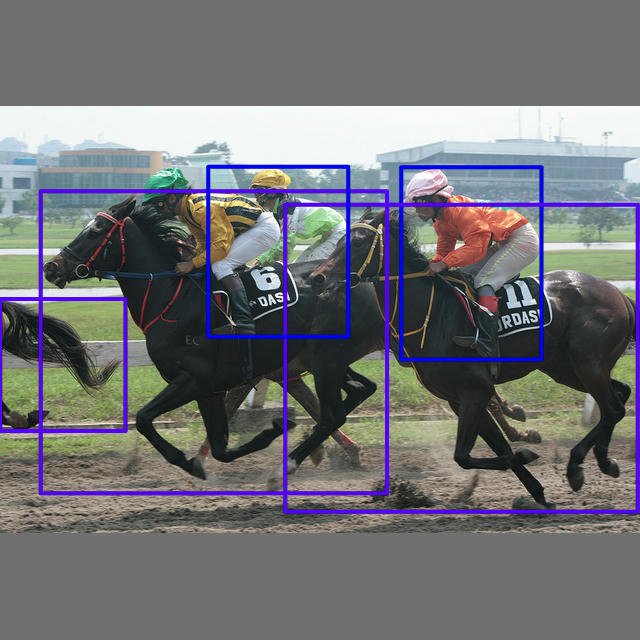
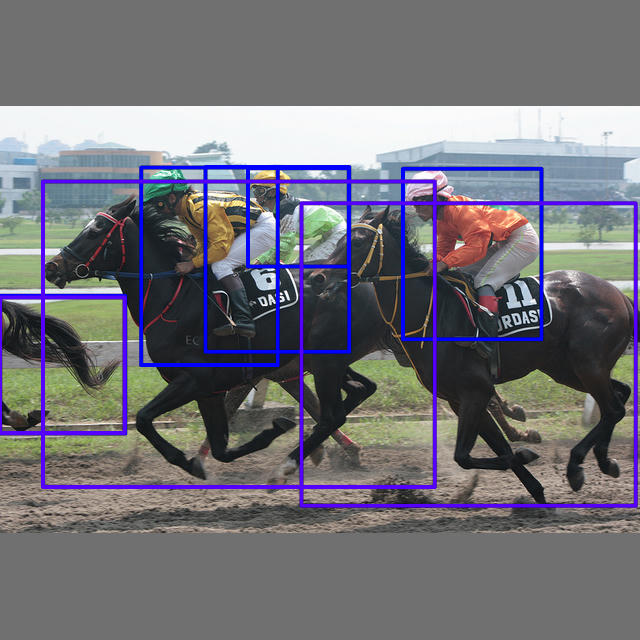
chore: version bump

Changed region(s): [[0.0, 0.25, 1.0, 0.8125]]

diff --git a/src/yolo/yolo_session.rs b/src/yolo/yolo_session.rs
@@ -31,15 +31,15 @@ impl YoloSession {
         })
     }
 
-    pub fn run_inference(&self, input_tensor: Array4<f32>) -> Vec<BoundingBox> {
+    pub fn run_inference(&mut self, input_tensor: Array4<f32>) -> Vec<BoundingBox> {
         let outputs = self
             .session
             .run_inference(input_tensor)
             .expect("Inference failed");
         let output = outputs["output0"]
-            .try_extract_tensor::<f32>()
+            .try_extract_array::<f32>()
             .expect("Failed to extract tensor")
-            .into_owned();
+            .to_owned();
         let mut boxes = Vec::new();
         println!("output shape: {:?}", output.shape());
 
@@ -175,16 +175,15 @@ impl YoloSession {
         );
     }
 
-    pub fn process_image(&self, image_path: &str) {
+    pub fn process_image(&mut self, image_path: &str) {
         let (original_image, loaded_image) = self.load_and_preprocess_image(image_path);
 
         let normalized_image = normalize_image_f32(&loaded_image, None, None);
         let mut inferred_boxes = self.run_inference(normalized_image.image_array);
 
         // YOLOv10 does not require NMS
-        // you can use them for other models
-        // XXX: it's not hard coded as "0.45", which is the default value for Ultralytics YOLOv8
-        if self.use_nms {
+        // YOLOv8 requires NMS
+        if self.model_name == "yolov8" || self.use_nms {
             inferred_boxes = nms(inferred_boxes, 0.45);
         }
 

diff --git a/src/yolo/yolo_utils.rs b/src/yolo/yolo_utils.rs
@@ -29,13 +29,20 @@ impl BoundingBox {
 
 
 pub fn nms(boxes: Vec<BoundingBox>, iou_threshold: f32) -> Vec<BoundingBox> {
-    let mut sorted_boxes = boxes.clone();
-    sorted_boxes.sort_by(|a, b| b.probability.partial_cmp(&a.probability).unwrap());
     let mut result = Vec::new();
-    while !sorted_boxes.is_empty() {
-        let best_box = sorted_boxes.remove(0);
-        result.push(best_box);
-        sorted_boxes.retain(|bbox| best_box.iou(&bbox) < iou_threshold);
+    let mut boxes_by_class: std::collections::HashMap<usize, Vec<BoundingBox>> = std::collections::HashMap::new();
+
+    for bbox in boxes {
+        boxes_by_class.entry(bbox.class_id).or_default().push(bbox);
+    }
+
+    for (_, mut class_boxes) in boxes_by_class {
+        class_boxes.sort_by(|a, b| b.probability.partial_cmp(&a.probability).unwrap());
+        while !class_boxes.is_empty() {
+            let best_box = class_boxes.remove(0);
+            result.push(best_box);
+            class_boxes.retain(|bbox| best_box.iou(&bbox) < iou_threshold);
+        }
     }
     result
 }

diff --git a/src/dnn/ort_inference_session.rs b/src/dnn/ort_inference_session.rs
@@ -17,9 +17,9 @@ impl OrtInferenceSession {
     }
 
     pub fn run_inference(
-        &self,
+        &mut self,
         input_image: ArrayBase<OwnedRepr<f32>, Dim<[usize; 4]>>
-    ) -> ort::Result<SessionOutputs> {
+    ) -> ort::Result<SessionOutputs<'_>> {
         let time_pre_compute = Instant::now();
 
     let shape = input_image.shape().to_vec();

diff --git a/src/main.rs b/src/main.rs
@@ -35,7 +35,7 @@ fn main() {
         }
     };
 
-    let yolo_model = YoloSession::new(&model_path, (640, 640), use_nms, model_name)
+    let mut yolo_model = YoloSession::new(&model_path, (640, 640), use_nms, model_name)
         .expect("Failed to create YOLO model");
 
     yolo_model.process_image(image_path);
